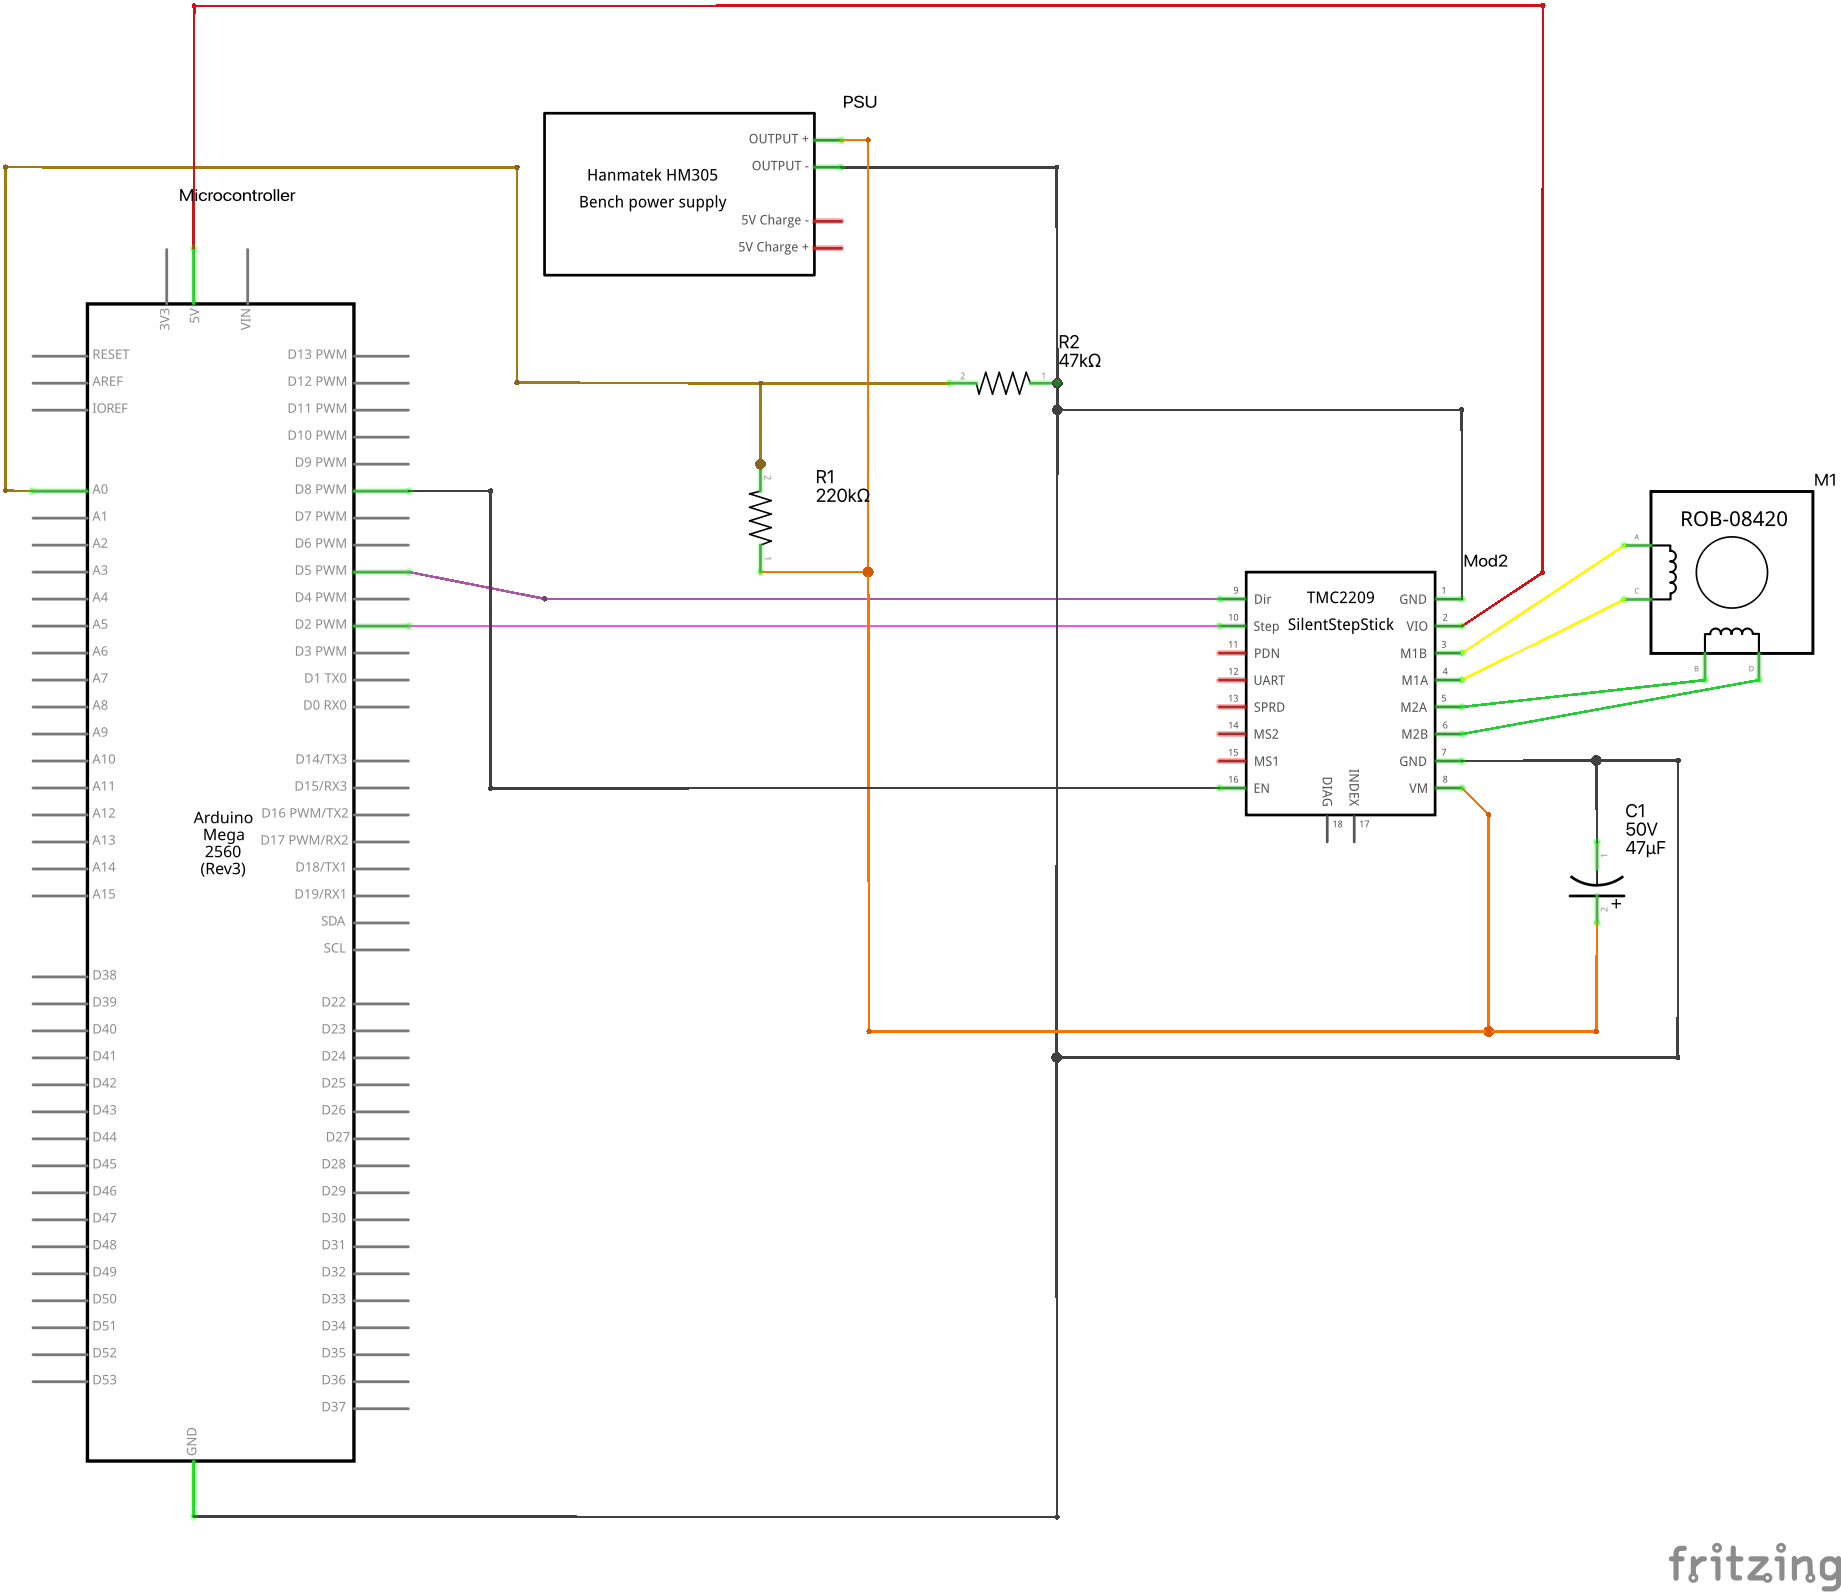
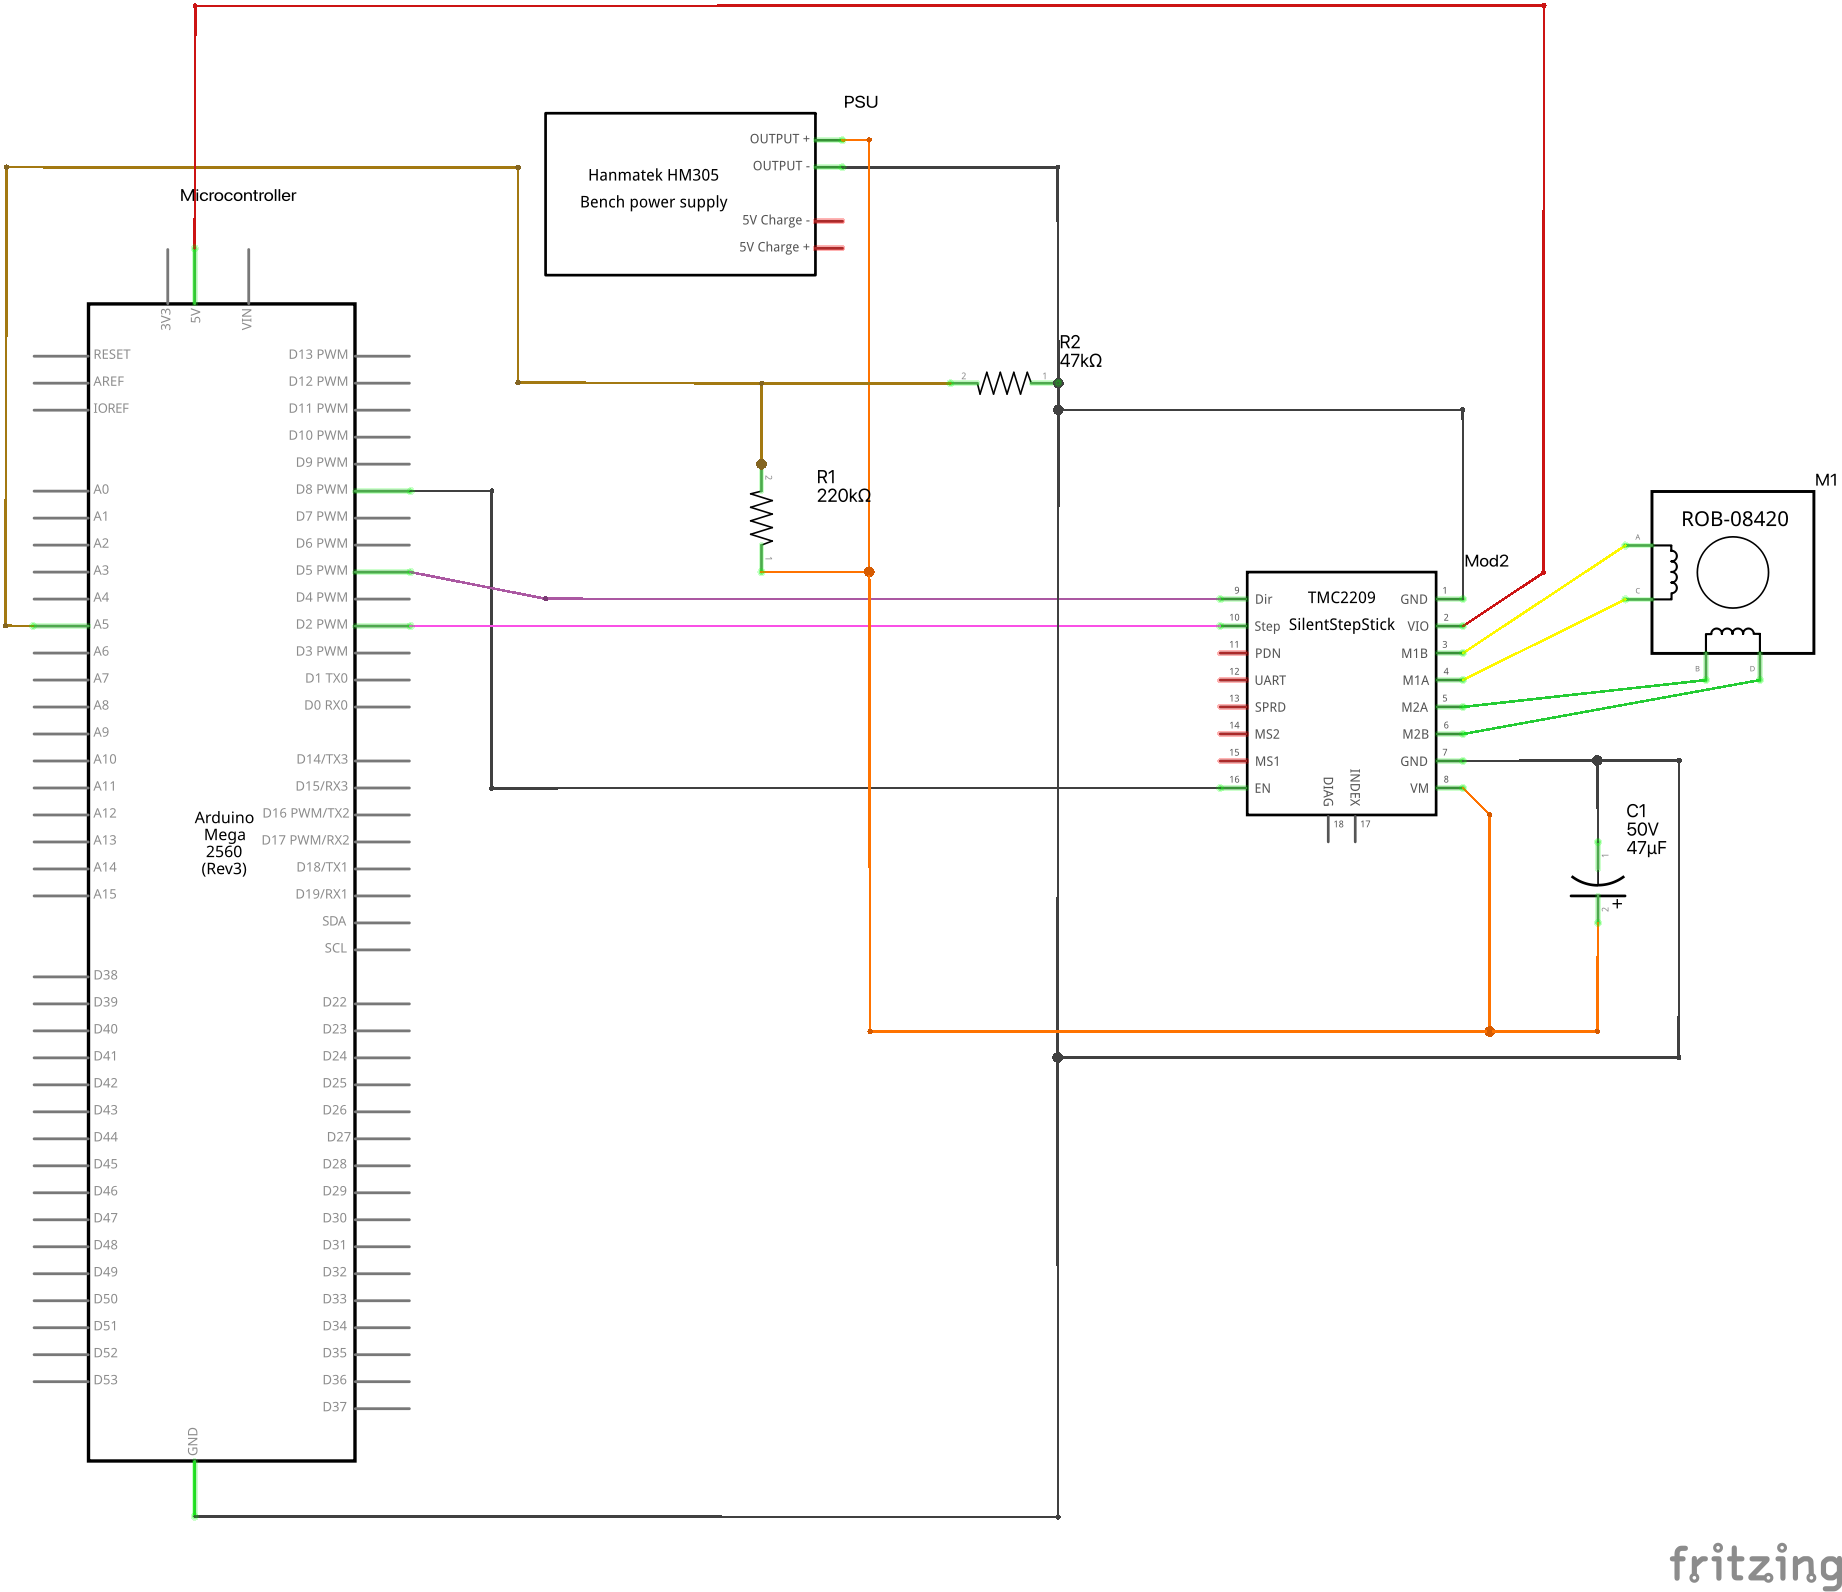
Power supply using A5 pin

diff --git a/platform/arduinoStepMotorsXYController/src/AvrExternalPowerSupplyDetector.cpp b/platform/arduinoStepMotorsXYController/src/AvrExternalPowerSupplyDetector.cpp
@@ -112,7 +112,7 @@ AvrExternalPowerSupplyDetector::readAnalogInputMillivolts()
 {
     const uint32_t adcReferenceMillivolts = 5000UL;
     return static_cast<uint16_t>(
-        (static_cast<uint32_t>(readAdc0()) * adcReferenceMillivolts) / 1023UL);
+        (static_cast<uint32_t>(readAdc5()) * adcReferenceMillivolts) / 1023UL);
 }
 
 uint16_t
@@ -144,9 +144,13 @@ AvrExternalPowerSupplyDetector::filteredExternalSupplyMillivolts() const
 }
 
 uint16_t
-AvrExternalPowerSupplyDetector::readAdc0()
+AvrExternalPowerSupplyDetector::readAdc5()
 {
-    ADMUX = static_cast<uint8_t>((ADMUX & 0xF0U) | 0U);
+    // A5 instead of A0: on a CNC Shield V3, A0-A3 are committed to
+    // Abort/FeedHold/CycleStart/Coolant (A0 also has the shield's own
+    // 10k pull-up populated, which would bias this voltage divider), while
+    // A4/A5 are documented as unused/reserved.
+    ADMUX = static_cast<uint8_t>((ADMUX & 0xF0U) | 5U);
     ADCSRA = static_cast<uint8_t>(ADCSRA | (1U << ADSC));
     while ((ADCSRA & static_cast<uint8_t>(1U << ADSC)) != 0U) {
     }

diff --git a/platform/arduinoStepMotorsXYController/src/main.cpp b/platform/arduinoStepMotorsXYController/src/main.cpp
@@ -114,7 +114,7 @@ printHardwareConfiguration(UartSerial& serial)
 
     serial.writeString("[");
     serial.writeUnsigned(STEPPER_MOTOR_COUNT);
-    serial.writeString("] A0, D");
+    serial.writeString("] A5, D");
     serial.writeUnsigned(MOTOR_DRIVER_ENABLE_PIN);
     serial.writeString(
         ": external power supply detector input, motor driver enable");

diff --git a/platform/arduinoStepMotorsXYController/src/AvrExternalPowerSupplyDetector.h b/platform/arduinoStepMotorsXYController/src/AvrExternalPowerSupplyDetector.h
@@ -5,7 +5,7 @@
 
 class AvrExternalPowerSupplyDetector : public ExternalPowerSupplyDetector {
   private:
-    static uint16_t readAdc0();
+    static uint16_t readAdc5();
     static uint16_t minimumExternalSupplyMillivolts();
     static uint16_t disconnectExternalSupplyMillivolts();
 

diff --git a/platform/arduinoStepMotorsXYController/README.md b/platform/arduinoStepMotorsXYController/README.md
@@ -110,7 +110,7 @@ in Fritzing.
 | 5 | D5 / PD5 | D5 / PE3 | Output | A4988/TMC2209 DIR input |
 | 8 | D8 / PB0 | D8 / PH5 | Output | Shared motor driver EN input (active low; CNC Shield X/Y/Z EN) |
 | 13 | D13 / PB5 | D13 / PB7 | Output | Testing LED |
-| A0 | ADC0 / PC0 | ADC0 / PF0 | Analog input | External power supply unit detection via voltage divider from VMOT |
+| A5 | ADC5 / PC5 | ADC5 / PF5 | Analog input | External power supply unit detection via voltage divider from VMOT |
 
 This pinout matches the X-axis socket of a Protoneer-compatible Arduino CNC
 Shield V3 (`doc/references/electronicsElements/arduino-cnc-shield-protoneer.pdf`):
@@ -120,6 +120,13 @@ next `STEP` rising edge. `EN` is active low and shared by every axis on the
 shield: driving it LOW enables all motor drivers at once, HIGH disables them
 all, regardless of each motor's own STEP/DIR state. `D0` and `D1` stay free
 for the USB serial console.
+
+The PSU voltage divider uses `A5` rather than `A0` on purpose: on the CNC
+Shield, `A0`-`A3` are committed to Abort/Feed Hold/Cycle Start/Coolant, and
+`A0` specifically already has the shield's own 10k pull-up populated, which
+would bias this divider's reading if reused. `A4`/`A5` are documented as
+unused/reserved on the shield, so `A5` is free of both the semantic and the
+electrical conflict.
 
 `AvrStepDirectionDriver` supports D2-D13 on UNO/Nano and D2-D53 on Mega
 2560. The program rejects D0/D1 because this firmware reserves them for UART,
@@ -163,14 +170,14 @@ implementations in this target are named `AvrSystemClock`, `AvrUartSerial`,
 `AvrStepDirectionDriver`. `main.cpp` creates these concrete objects during
 initialization and uses the core interface types afterward.
 
-The external power supply detector expects a voltage divider from `VMOT` into `A0`. The divider must keep the analog input inside the board's ADC range.
+The external power supply detector expects a voltage divider from `VMOT` into `A5`. The divider must keep the analog input inside the board's ADC range.
 
-The default `A0` input circuit is designed to detect the external `VMOT`
+The default `A5` input circuit is designed to detect the external `VMOT`
 input at `24V` while keeping the ADC pin below `5V`:
 
 ```text
         220 kOhm
-VMOT--/\/\/------ +---- A0
+VMOT--/\/\/------ +---- A5
                  |
                47 kOhm
                  |
@@ -181,13 +188,13 @@ The default divider values are:
 
 | Resistor | Value | Connection |
 |---|---:|---|
-| VMOT resistor | 220 KOhm | VMOT to A0 |
-| GND resistor | 47 KOhm | A0 to GND |
+| VMOT resistor | 220 KOhm | VMOT to A5 |
+| GND resistor | 47 KOhm | A5 to GND |
 
-At `24V`, this divider drives `A0` to about `4.22V`, which stays safely inside
+At `24V`, this divider drives `A5` to about `4.22V`, which stays safely inside
 the ADC range.
 
-The detector reconstructs the external `VMOT` voltage from the measured `A0`
+The detector reconstructs the external `VMOT` voltage from the measured `A5`
 voltage and the configured divider values. These CMake variables are passed to
 the firmware as compile-time definitions:
 
@@ -195,8 +202,8 @@ the firmware as compile-time definitions:
 |---|---:|---|
 | `EXTERNAL_VOLTAGE_PSU` | `24` | Expected external power supply voltage, in volts |
 | `EXTERNAL_VOLTAGE_PSU_TOLERANCE` | `1.5` | Accepted voltage tolerance below `EXTERNAL_VOLTAGE_PSU`, in volts |
-| `EXTERNAL_PSU_VOLTAGE_DIVIDER_VIN_RESISTOR_OHMS` | `220000` | Legacy variable name; resistor between `VMOT` and `A0`, in ohms |
-| `EXTERNAL_PSU_VOLTAGE_DIVIDER_GND_RESISTOR_OHMS` | `47000` | Resistor between `A0` and `GND`, in ohms |
+| `EXTERNAL_PSU_VOLTAGE_DIVIDER_VIN_RESISTOR_OHMS` | `220000` | Legacy variable name; resistor between `VMOT` and `A5`, in ohms |
+| `EXTERNAL_PSU_VOLTAGE_DIVIDER_GND_RESISTOR_OHMS` | `47000` | Resistor between `A5` and `GND`, in ohms |
 | `PSU_NOT_FOUND_ERROR_PRINTING_TIME_INTERVAL` | `5000` | Minimum interval between missing-PSU error messages, in milliseconds |
 
 The expected PSU voltage is configured at CMake level with:
@@ -224,7 +231,7 @@ The missing-PSU error print interval is configured in milliseconds with:
 -DPSU_NOT_FOUND_ERROR_PRINTING_TIME_INTERVAL=5000
 ```
 
-At runtime, `AvrExternalPowerSupplyDetector` samples `A0` every 10 ms,
+At runtime, `AvrExternalPowerSupplyDetector` samples `A5` every 10 ms,
 converts the ADC reading to millivolts, and reconstructs the external `VMOT`
 voltage using the configured resistor divider. An IIR filter with a coefficient
 of `1/8` prevents isolated ADC spikes from restarting motion.
